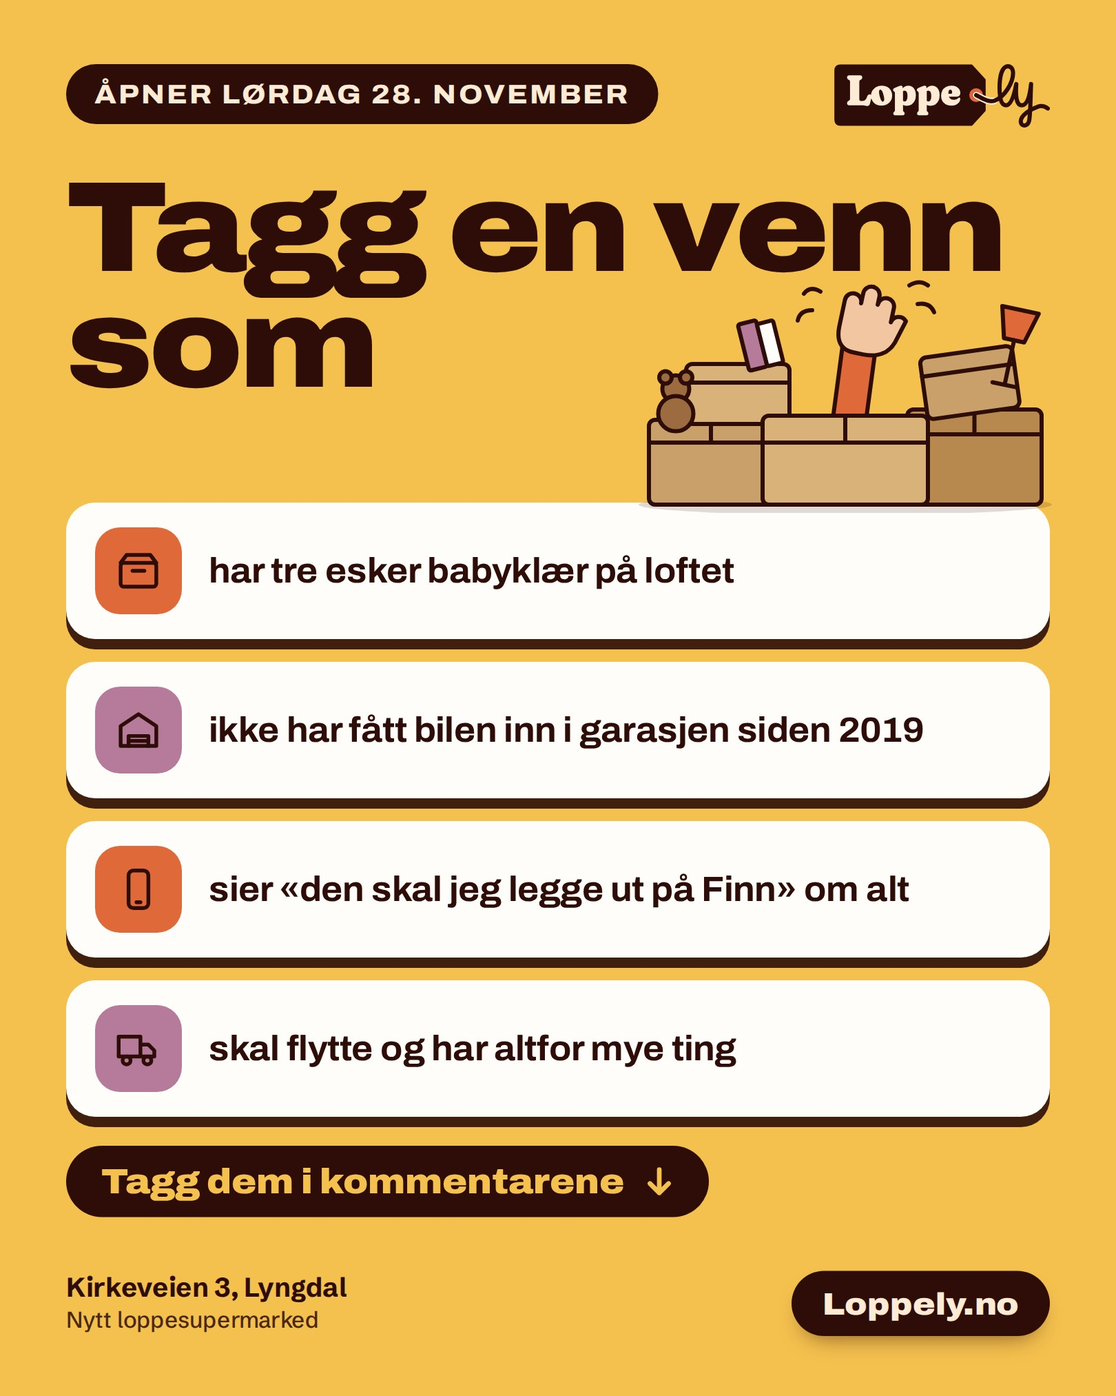
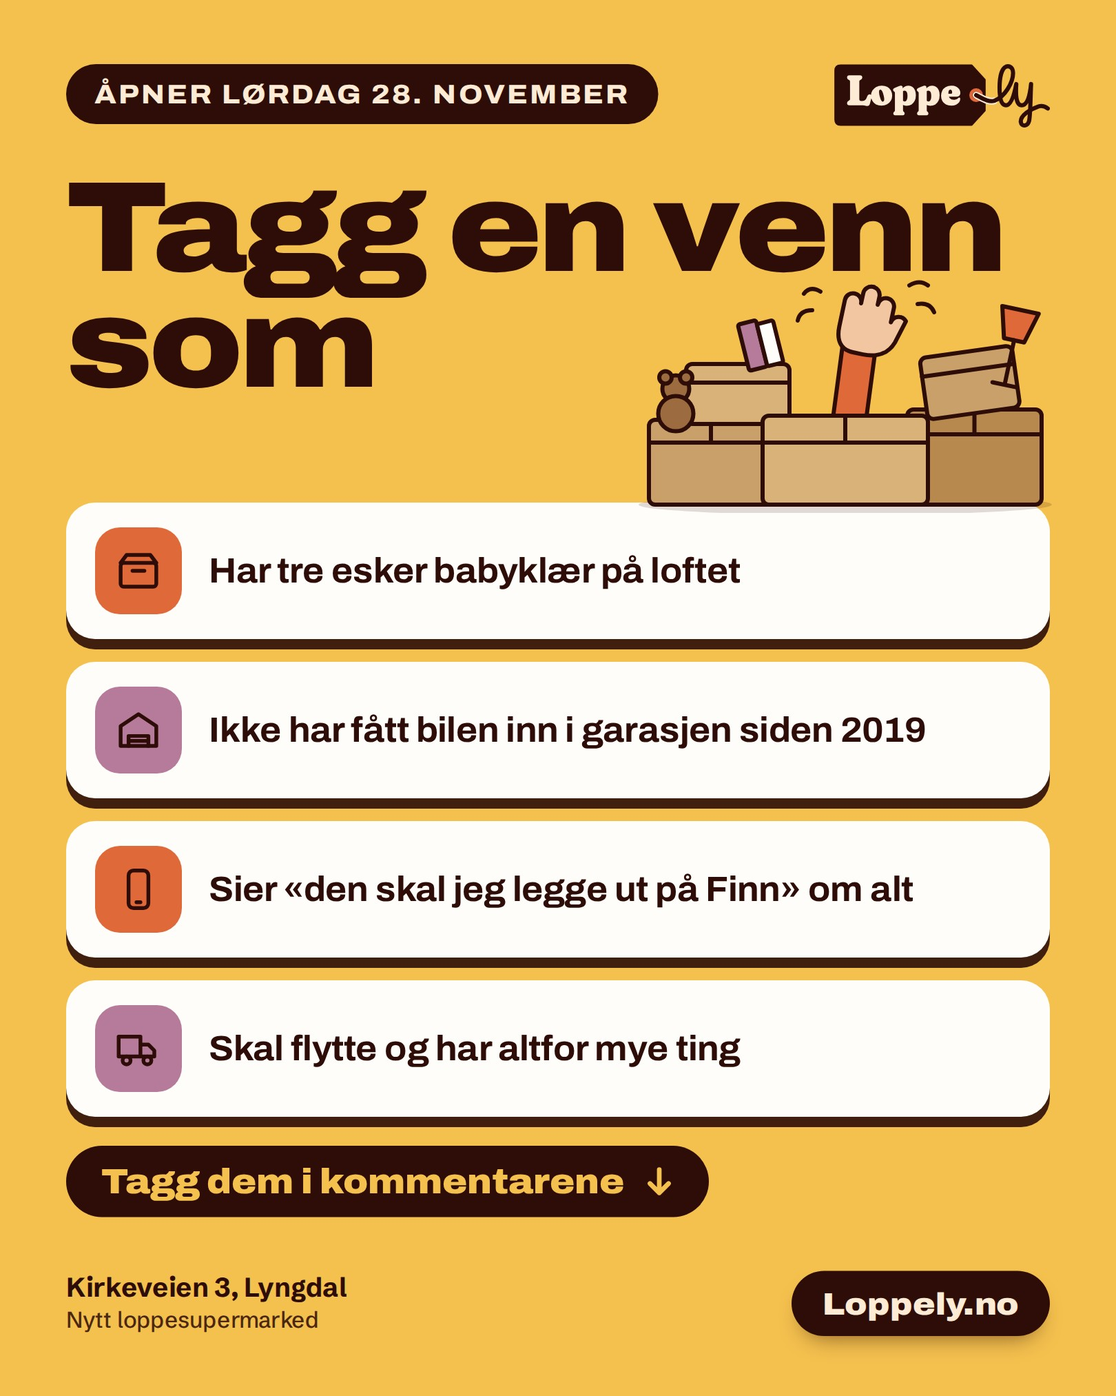
ads: capitalise the card lines on 'Tagg en venn som'
Claude-Session: https://claude.ai/code/session_01RRhAi942qst8ZUNjrS2TNS

diff --git a/ads/index.html b/ads/index.html
@@ -47,7 +47,7 @@ footer a{color:inherit}
   </div>
   <div class="grid">
   <article class="card" id="01-konsept">
-    <a class="img" href="01-konsept.jpg?v=09291247" target="_blank"><img src="01-konsept.jpg?v=09291247" width="1620" height="2025" loading="lazy" alt="Konseptet på ett bilde"></a>
+    <a class="img" href="01-konsept.jpg?v=09291249" target="_blank"><img src="01-konsept.jpg?v=09291249" width="1620" height="2025" loading="lazy" alt="Konseptet på ett bilde"></a>
     <div class="body">
       <h2>Konseptet på ett bilde</h2>
       <p class="when">Første innlegg. Fest det øverst på siden.</p>
@@ -58,11 +58,11 @@ Loppely er et nytt loppesupermarked i Kirkeveien 3 i Lyngdal. Du leier en stand,
 Vi åpner lørdag 28. november.
 
 Les mer og meld interesse på Loppely.no</pre>
-      <div class="btns"><button class="btn copy" type="button">Kopier tekst</button><a class="btn ghost" href="01-konsept.jpg?v=09291247" download="01-konsept.jpg">Last ned bilde</a></div>
+      <div class="btns"><button class="btn copy" type="button">Kopier tekst</button><a class="btn ghost" href="01-konsept.jpg?v=09291249" download="01-konsept.jpg">Last ned bilde</a></div>
     </div>
   </article>
   <article class="card" id="02-slik-funker-det">
-    <a class="img" href="02-slik-funker-det.jpg?v=09291247" target="_blank"><img src="02-slik-funker-det.jpg?v=09291247" width="1620" height="2025" loading="lazy" alt="Slik funker det"></a>
+    <a class="img" href="02-slik-funker-det.jpg?v=09291249" target="_blank"><img src="02-slik-funker-det.jpg?v=09291249" width="1620" height="2025" loading="lazy" alt="Slik funker det"></a>
     <div class="body">
       <h2>Slik funker det</h2>
       <p class="when">Uke 1. Forklarer konseptet steg for steg.</p>
@@ -77,11 +77,11 @@ Du trenger ikke stå der selv. Følg salget på «Min side».
 
 Åpner lørdag 28. november i Kirkeveien 3, Lyngdal.
 Loppely.no</pre>
-      <div class="btns"><button class="btn copy" type="button">Kopier tekst</button><a class="btn ghost" href="02-slik-funker-det.jpg?v=09291247" download="02-slik-funker-det.jpg">Last ned bilde</a></div>
+      <div class="btns"><button class="btn copy" type="button">Kopier tekst</button><a class="btn ghost" href="02-slik-funker-det.jpg?v=09291249" download="02-slik-funker-det.jpg">Last ned bilde</a></div>
     </div>
   </article>
   <article class="card" id="03-her-er-vi">
-    <a class="img" href="03-her-er-vi.jpg?v=09291247" target="_blank"><img src="03-her-er-vi.jpg?v=09291247" width="1620" height="2025" loading="lazy" alt="Her finner du oss"></a>
+    <a class="img" href="03-her-er-vi.jpg?v=09291249" target="_blank"><img src="03-her-er-vi.jpg?v=09291249" width="1620" height="2025" loading="lazy" alt="Her finner du oss"></a>
     <div class="body">
       <h2>Her finner du oss</h2>
       <p class="when">Uke 2, og igjen uka før åpning.</p>
@@ -93,11 +93,11 @@ Loppely ligger i Kirkeveien 3, midt i Lyngdal sentrum. Gå rett ned trappen, så
 Vi åpner lørdag 28. november.
 
 Veibeskrivelse på Loppely.no</pre>
-      <div class="btns"><button class="btn copy" type="button">Kopier tekst</button><a class="btn ghost" href="03-her-er-vi.jpg?v=09291247" download="03-her-er-vi.jpg">Last ned bilde</a></div>
+      <div class="btns"><button class="btn copy" type="button">Kopier tekst</button><a class="btn ghost" href="03-her-er-vi.jpg?v=09291249" download="03-her-er-vi.jpg">Last ned bilde</a></div>
     </div>
   </article>
   <article class="card" id="04-priser">
-    <a class="img" href="04-priser.jpg?v=09291247" target="_blank"><img src="04-priser.jpg?v=09291247" width="1620" height="2025" loading="lazy" alt="Priser"></a>
+    <a class="img" href="04-priser.jpg?v=09291249" target="_blank"><img src="04-priser.jpg?v=09291249" width="1620" height="2025" loading="lazy" alt="Priser"></a>
     <div class="body">
       <h2>Priser</h2>
       <p class="when">Uke 2. Svarer på «hva koster det?».</p>
@@ -110,11 +110,11 @@ VIP: fra 349 kr per uke og 29% provisjon. Du leverer varene, vi gjør resten.
 Alle priser inkluderer mva. Laveste pris gjelder ved leie i 4 uker.
 
 Se alt på Loppely.no</pre>
-      <div class="btns"><button class="btn copy" type="button">Kopier tekst</button><a class="btn ghost" href="04-priser.jpg?v=09291247" download="04-priser.jpg">Last ned bilde</a></div>
+      <div class="btns"><button class="btn copy" type="button">Kopier tekst</button><a class="btn ghost" href="04-priser.jpg?v=09291249" download="04-priser.jpg">Last ned bilde</a></div>
     </div>
   </article>
   <article class="card" id="05-utbetalt">
-    <a class="img" href="05-utbetalt.jpg?v=09291247" target="_blank"><img src="05-utbetalt.jpg?v=09291247" width="1620" height="2025" loading="lazy" alt="Dette får du utbetalt"></a>
+    <a class="img" href="05-utbetalt.jpg?v=09291249" target="_blank"><img src="05-utbetalt.jpg?v=09291249" width="1620" height="2025" loading="lazy" alt="Dette får du utbetalt"></a>
     <div class="body">
       <h2>Dette får du utbetalt</h2>
       <p class="when">Uke 3. Gjør regnestykket konkret.</p>
@@ -125,11 +125,11 @@ Selger du noe for 500 kr hos Loppely, får du 405 kr. Provisjonen er 19%, og den
 Pengene betales ut til kontoen din hver måned.
 
 Regn på flere eksempler på Loppely.no</pre>
-      <div class="btns"><button class="btn copy" type="button">Kopier tekst</button><a class="btn ghost" href="05-utbetalt.jpg?v=09291247" download="05-utbetalt.jpg">Last ned bilde</a></div>
+      <div class="btns"><button class="btn copy" type="button">Kopier tekst</button><a class="btn ghost" href="05-utbetalt.jpg?v=09291249" download="05-utbetalt.jpg">Last ned bilde</a></div>
     </div>
   </article>
   <article class="card" id="06-forste-uke-gratis">
-    <a class="img" href="06-forste-uke-gratis.jpg?v=09291247" target="_blank"><img src="06-forste-uke-gratis.jpg?v=09291247" width="1620" height="2025" loading="lazy" alt="Første uke gratis"></a>
+    <a class="img" href="06-forste-uke-gratis.jpg?v=09291249" target="_blank"><img src="06-forste-uke-gratis.jpg?v=09291249" width="1620" height="2025" loading="lazy" alt="Første uke gratis"></a>
     <div class="body">
       <h2>Første uke gratis</h2>
       <p class="when">Når dere vil ha flere på interesselista.</p>
@@ -140,11 +140,11 @@ Meld interesse på Loppely.no, så får du første uke gratis når du leier stan
 Det er gratis og uforpliktende å stå på lista. Vi tar kontakt før åpning.
 
 Loppely åpner lørdag 28. november i Kirkeveien 3, Lyngdal.</pre>
-      <div class="btns"><button class="btn copy" type="button">Kopier tekst</button><a class="btn ghost" href="06-forste-uke-gratis.jpg?v=09291247" download="06-forste-uke-gratis.jpg">Last ned bilde</a></div>
+      <div class="btns"><button class="btn copy" type="button">Kopier tekst</button><a class="btn ghost" href="06-forste-uke-gratis.jpg?v=09291249" download="06-forste-uke-gratis.jpg">Last ned bilde</a></div>
     </div>
   </article>
   <article class="card" id="07-hva-kan-du-selge">
-    <a class="img" href="07-hva-kan-du-selge.jpg?v=09291247" target="_blank"><img src="07-hva-kan-du-selge.jpg?v=09291247" width="1620" height="2025" loading="lazy" alt="Hva kan du selge?"></a>
+    <a class="img" href="07-hva-kan-du-selge.jpg?v=09291249" target="_blank"><img src="07-hva-kan-du-selge.jpg?v=09291249" width="1620" height="2025" loading="lazy" alt="Hva kan du selge?"></a>
     <div class="body">
       <h2>Hva kan du selge?</h2>
       <p class="when">Uke 3. Får folk til å tenke på boden sin.</p>
@@ -155,11 +155,11 @@ Hos Loppely kan du selge klær, barneting, leker, bøker, kjøkkenutstyr, sports
 Større ting som sykler, barnevogner og mindre møbler selger du for 39 kr per uke.
 
 Se hva du kan selge på Loppely.no</pre>
-      <div class="btns"><button class="btn copy" type="button">Kopier tekst</button><a class="btn ghost" href="07-hva-kan-du-selge.jpg?v=09291247" download="07-hva-kan-du-selge.jpg">Last ned bilde</a></div>
+      <div class="btns"><button class="btn copy" type="button">Kopier tekst</button><a class="btn ghost" href="07-hva-kan-du-selge.jpg?v=09291249" download="07-hva-kan-du-selge.jpg">Last ned bilde</a></div>
     </div>
   </article>
   <article class="card" id="08-vip">
-    <a class="img" href="08-vip.jpg?v=09291247" target="_blank"><img src="08-vip.jpg?v=09291247" width="1620" height="2025" loading="lazy" alt="VIP: Vi gjør alt"></a>
+    <a class="img" href="08-vip.jpg?v=09291249" target="_blank"><img src="08-vip.jpg?v=09291249" width="1620" height="2025" loading="lazy" alt="VIP: Vi gjør alt"></a>
     <div class="body">
       <h2>VIP: Vi gjør alt</h2>
       <p class="when">For dem som ikke har tid.</p>
@@ -170,11 +170,11 @@ Du leverer varene, så tar vi bilder, priser og registrerer dem, og gjør stande
 Fra 349 kr per uke og 29% provisjon.
 
 Les mer på Loppely.no</pre>
-      <div class="btns"><button class="btn copy" type="button">Kopier tekst</button><a class="btn ghost" href="08-vip.jpg?v=09291247" download="08-vip.jpg">Last ned bilde</a></div>
+      <div class="btns"><button class="btn copy" type="button">Kopier tekst</button><a class="btn ghost" href="08-vip.jpg?v=09291249" download="08-vip.jpg">Last ned bilde</a></div>
     </div>
   </article>
   <article class="card" id="09-merk-datoen">
-    <a class="img" href="09-merk-datoen.jpg?v=09291247" target="_blank"><img src="09-merk-datoen.jpg?v=09291247" width="1620" height="2025" loading="lazy" alt="Merk datoen"></a>
+    <a class="img" href="09-merk-datoen.jpg?v=09291249" target="_blank"><img src="09-merk-datoen.jpg?v=09291249" width="1620" height="2025" loading="lazy" alt="Merk datoen"></a>
     <div class="body">
       <h2>Merk datoen</h2>
       <p class="when">2 til 3 uker før åpning, og dagen før.</p>
@@ -184,11 +184,11 @@ Lørdag 28. november kl. 10 åpner Loppely i Kirkeveien 3, Lyngdal. Et helt nytt
 
 Vil du selge? Meld interesse på Loppely.no
 Vil du handle? Vi sees 28. november!</pre>
-      <div class="btns"><button class="btn copy" type="button">Kopier tekst</button><a class="btn ghost" href="09-merk-datoen.jpg?v=09291247" download="09-merk-datoen.jpg">Last ned bilde</a></div>
+      <div class="btns"><button class="btn copy" type="button">Kopier tekst</button><a class="btn ghost" href="09-merk-datoen.jpg?v=09291249" download="09-merk-datoen.jpg">Last ned bilde</a></div>
     </div>
   </article>
   <article class="card" id="10-rydd-til-jul">
-    <a class="img" href="10-rydd-til-jul.jpg?v=09291247" target="_blank"><img src="10-rydd-til-jul.jpg?v=09291247" width="1620" height="2025" loading="lazy" alt="Rydd plass til jul"></a>
+    <a class="img" href="10-rydd-til-jul.jpg?v=09291249" target="_blank"><img src="10-rydd-til-jul.jpg?v=09291249" width="1620" height="2025" loading="lazy" alt="Rydd plass til jul"></a>
     <div class="body">
       <h2>Rydd plass til jul</h2>
       <p class="when">Fra midten av november.</p>
@@ -199,11 +199,11 @@ Leker barna har vokst fra, klær som ikke passer, ting som bare står i boden. D
 Lei en stand hos Loppely, så selger vi for deg gjennom hele julehandelen. Vi åpner lørdag 28. november.
 
 Loppely.no</pre>
-      <div class="btns"><button class="btn copy" type="button">Kopier tekst</button><a class="btn ghost" href="10-rydd-til-jul.jpg?v=09291247" download="10-rydd-til-jul.jpg">Last ned bilde</a></div>
+      <div class="btns"><button class="btn copy" type="button">Kopier tekst</button><a class="btn ghost" href="10-rydd-til-jul.jpg?v=09291249" download="10-rydd-til-jul.jpg">Last ned bilde</a></div>
     </div>
   </article>
   <article class="card" id="11-hvem-er-vi">
-    <a class="img" href="11-hvem-er-vi.jpg?v=09291247" target="_blank"><img src="11-hvem-er-vi.jpg?v=09291247" width="1620" height="2025" loading="lazy" alt="Hvem er vi"></a>
+    <a class="img" href="11-hvem-er-vi.jpg?v=09291249" target="_blank"><img src="11-hvem-er-vi.jpg?v=09291249" width="1620" height="2025" loading="lazy" alt="Hvem er vi"></a>
     <div class="body">
       <h2>Hvem er vi</h2>
       <p class="when">Tidlig. Folk handler med folk.</p>
@@ -214,11 +214,11 @@ Vi åpner Loppely i Lyngdal fordi vi mener gode ting fortjener et nytt hjem, og 
 Lørdag 28. november åpner vi dørene i Kirkeveien 3. Vi gleder oss til å se dere!
 
 Loppely.no</pre>
-      <div class="btns"><button class="btn copy" type="button">Kopier tekst</button><a class="btn ghost" href="11-hvem-er-vi.jpg?v=09291247" download="11-hvem-er-vi.jpg">Last ned bilde</a></div>
+      <div class="btns"><button class="btn copy" type="button">Kopier tekst</button><a class="btn ghost" href="11-hvem-er-vi.jpg?v=09291249" download="11-hvem-er-vi.jpg">Last ned bilde</a></div>
     </div>
   </article>
   <article class="card" id="12-for-og-etter">
-    <a class="img" href="12-for-og-etter.jpg?v=09291247" target="_blank"><img src="12-for-og-etter.jpg?v=09291247" width="1620" height="2025" loading="lazy" alt="Før og etter"></a>
+    <a class="img" href="12-for-og-etter.jpg?v=09291249" target="_blank"><img src="12-for-og-etter.jpg?v=09291249" width="1620" height="2025" loading="lazy" alt="Før og etter"></a>
     <div class="body">
       <h2>Før og etter</h2>
       <p class="when">Når som helst. Viser gevinsten på ett blikk.</p>
@@ -228,11 +228,11 @@ Lei en stand hos Loppely, sett prisen, og la oss selge tingene for deg. Du får 
 
 Åpner lørdag 28. november i Kirkeveien 3, Lyngdal.
 Loppely.no</pre>
-      <div class="btns"><button class="btn copy" type="button">Kopier tekst</button><a class="btn ghost" href="12-for-og-etter.jpg?v=09291247" download="12-for-og-etter.jpg">Last ned bilde</a></div>
+      <div class="btns"><button class="btn copy" type="button">Kopier tekst</button><a class="btn ghost" href="12-for-og-etter.jpg?v=09291249" download="12-for-og-etter.jpg">Last ned bilde</a></div>
     </div>
   </article>
   <article class="card" id="13-avstemning">
-    <a class="img" href="13-avstemning.jpg?v=09291247" target="_blank"><img src="13-avstemning.jpg?v=09291247" width="1620" height="2025" loading="lazy" alt="Avstemning: Hva ligger i boden?"></a>
+    <a class="img" href="13-avstemning.jpg?v=09291249" target="_blank"><img src="13-avstemning.jpg?v=09291249" width="1620" height="2025" loading="lazy" alt="Avstemning: Hva ligger i boden?"></a>
     <div class="body">
       <h2>Avstemning: Hva ligger i boden?</h2>
       <p class="when">For engasjement. Svar på kommentarene.</p>
@@ -246,11 +246,11 @@ D. Alt mulig rart
 Svar med bokstaven i kommentarfeltet. Uansett svar: alt dette kan du selge hos Loppely fra 28. november.
 
 Loppely.no</pre>
-      <div class="btns"><button class="btn copy" type="button">Kopier tekst</button><a class="btn ghost" href="13-avstemning.jpg?v=09291247" download="13-avstemning.jpg">Last ned bilde</a></div>
+      <div class="btns"><button class="btn copy" type="button">Kopier tekst</button><a class="btn ghost" href="13-avstemning.jpg?v=09291249" download="13-avstemning.jpg">Last ned bilde</a></div>
     </div>
   </article>
   <article class="card" id="14-19-prosent">
-    <a class="img" href="14-19-prosent.jpg?v=09291247" target="_blank"><img src="14-19-prosent.jpg?v=09291247" width="1620" height="2025" loading="lazy" alt="19%"></a>
+    <a class="img" href="14-19-prosent.jpg?v=09291249" target="_blank"><img src="14-19-prosent.jpg?v=09291249" width="1620" height="2025" loading="lazy" alt="19%"></a>
     <div class="body">
       <h2>19%</h2>
       <p class="when">Uke 3. Enkelt og tydelig.</p>
@@ -260,11 +260,11 @@ For det står vi i kassen, rydder standen hver dag, og du følger salget på «M
 
 Stand fra 200 kr per uke. Åpner 28. november.
 Loppely.no</pre>
-      <div class="btns"><button class="btn copy" type="button">Kopier tekst</button><a class="btn ghost" href="14-19-prosent.jpg?v=09291247" download="14-19-prosent.jpg">Last ned bilde</a></div>
+      <div class="btns"><button class="btn copy" type="button">Kopier tekst</button><a class="btn ghost" href="14-19-prosent.jpg?v=09291249" download="14-19-prosent.jpg">Last ned bilde</a></div>
     </div>
   </article>
   <article class="card" id="15-prislapp">
-    <a class="img" href="15-prislapp.jpg?v=09291247" target="_blank"><img src="15-prislapp.jpg?v=09291247" width="1620" height="2025" loading="lazy" alt="Prislappen"></a>
+    <a class="img" href="15-prislapp.jpg?v=09291249" target="_blank"><img src="15-prislapp.jpg?v=09291249" width="1620" height="2025" loading="lazy" alt="Prislappen"></a>
     <div class="body">
       <h2>Prislappen</h2>
       <p class="when">Når som helst. Blikkfang i feeden.</p>
@@ -274,11 +274,11 @@ Hos Loppely bestemmer du hva tingene dine skal koste. Du registrerer varene, skr
 
 Åpner lørdag 28. november.
 Loppely.no</pre>
-      <div class="btns"><button class="btn copy" type="button">Kopier tekst</button><a class="btn ghost" href="15-prislapp.jpg?v=09291247" download="15-prislapp.jpg">Last ned bilde</a></div>
+      <div class="btns"><button class="btn copy" type="button">Kopier tekst</button><a class="btn ghost" href="15-prislapp.jpg?v=09291249" download="15-prislapp.jpg">Last ned bilde</a></div>
     </div>
   </article>
   <article class="card" id="16-sjekkliste">
-    <a class="img" href="16-sjekkliste.jpg?v=09291247" target="_blank"><img src="16-sjekkliste.jpg?v=09291247" width="1620" height="2025" loading="lazy" alt="Sjekkliste før du leverer"></a>
+    <a class="img" href="16-sjekkliste.jpg?v=09291249" target="_blank"><img src="16-sjekkliste.jpg?v=09291249" width="1620" height="2025" loading="lazy" alt="Sjekkliste før du leverer"></a>
     <div class="body">
       <h2>Sjekkliste før du leverer</h2>
       <p class="when">Uka før åpning.</p>
@@ -293,11 +293,11 @@ Loppely.no</pre>
 Så er standen klar, og du får plass hjemme igjen. Vil du slippe alt dette? Velg VIP, så gjør vi det for deg.
 
 Loppely.no</pre>
-      <div class="btns"><button class="btn copy" type="button">Kopier tekst</button><a class="btn ghost" href="16-sjekkliste.jpg?v=09291247" download="16-sjekkliste.jpg">Last ned bilde</a></div>
+      <div class="btns"><button class="btn copy" type="button">Kopier tekst</button><a class="btn ghost" href="16-sjekkliste.jpg?v=09291249" download="16-sjekkliste.jpg">Last ned bilde</a></div>
     </div>
   </article>
   <article class="card" id="17-bra-for-alle">
-    <a class="img" href="17-bra-for-alle.jpg?v=09291247" target="_blank"><img src="17-bra-for-alle.jpg?v=09291247" width="1620" height="2025" loading="lazy" alt="Bra for lommeboka og miljøet"></a>
+    <a class="img" href="17-bra-for-alle.jpg?v=09291249" target="_blank"><img src="17-bra-for-alle.jpg?v=09291249" width="1620" height="2025" loading="lazy" alt="Bra for lommeboka og miljøet"></a>
     <div class="body">
       <h2>Bra for lommeboka og miljøet</h2>
       <p class="when">Når som helst. Myk og positiv.</p>
@@ -307,11 +307,11 @@ Når du selger det du ikke bruker, får du penger og plass hjemme. Og tingene di
 
 Loppely åpner i Lyngdal lørdag 28. november.
 Loppely.no</pre>
-      <div class="btns"><button class="btn copy" type="button">Kopier tekst</button><a class="btn ghost" href="17-bra-for-alle.jpg?v=09291247" download="17-bra-for-alle.jpg">Last ned bilde</a></div>
+      <div class="btns"><button class="btn copy" type="button">Kopier tekst</button><a class="btn ghost" href="17-bra-for-alle.jpg?v=09291249" download="17-bra-for-alle.jpg">Last ned bilde</a></div>
     </div>
   </article>
   <article class="card" id="18-min-side">
-    <a class="img" href="18-min-side.jpg?v=09291247" target="_blank"><img src="18-min-side.jpg?v=09291247" width="1620" height="2025" loading="lazy" alt="Følg salget på mobilen"></a>
+    <a class="img" href="18-min-side.jpg?v=09291249" target="_blank"><img src="18-min-side.jpg?v=09291249" width="1620" height="2025" loading="lazy" alt="Følg salget på mobilen"></a>
     <div class="body">
       <h2>Følg salget på mobilen</h2>
       <p class="when">Uke 3. Viser «Min side».</p>
@@ -321,11 +321,11 @@ På «Min side» ser du hva som er solgt, hva som står igjen, og hvor mye du ha
 
 Loppely åpner lørdag 28. november.
 Loppely.no</pre>
-      <div class="btns"><button class="btn copy" type="button">Kopier tekst</button><a class="btn ghost" href="18-min-side.jpg?v=09291247" download="18-min-side.jpg">Last ned bilde</a></div>
+      <div class="btns"><button class="btn copy" type="button">Kopier tekst</button><a class="btn ghost" href="18-min-side.jpg?v=09291249" download="18-min-side.jpg">Last ned bilde</a></div>
     </div>
   </article>
   <article class="card" id="19-sporsmal-og-svar">
-    <a class="img" href="19-sporsmal-og-svar.jpg?v=09291247" target="_blank"><img src="19-sporsmal-og-svar.jpg?v=09291247" width="1620" height="2025" loading="lazy" alt="Spørsmål og svar"></a>
+    <a class="img" href="19-sporsmal-og-svar.jpg?v=09291249" target="_blank"><img src="19-sporsmal-og-svar.jpg?v=09291249" width="1620" height="2025" loading="lazy" alt="Spørsmål og svar"></a>
     <div class="body">
       <h2>Spørsmål og svar</h2>
       <p class="when">Uke 2 til 4. Fjerner tvil.</p>
@@ -336,11 +336,11 @@ Hvem setter prisen? Du. Og du kan endre den underveis.
 Når får jeg pengene? Utbetaling hver måned.
 
 Har du flere spørsmål? Skriv i kommentarfeltet, eller les mer på Loppely.no</pre>
-      <div class="btns"><button class="btn copy" type="button">Kopier tekst</button><a class="btn ghost" href="19-sporsmal-og-svar.jpg?v=09291247" download="19-sporsmal-og-svar.jpg">Last ned bilde</a></div>
+      <div class="btns"><button class="btn copy" type="button">Kopier tekst</button><a class="btn ghost" href="19-sporsmal-og-svar.jpg?v=09291249" download="19-sporsmal-og-svar.jpg">Last ned bilde</a></div>
     </div>
   </article>
   <article class="card" id="20-kvittering">
-    <a class="img" href="20-kvittering.jpg?v=09291247" target="_blank"><img src="20-kvittering.jpg?v=09291247" width="1620" height="2025" loading="lazy" alt="Kvitteringen"></a>
+    <a class="img" href="20-kvittering.jpg?v=09291249" target="_blank"><img src="20-kvittering.jpg?v=09291249" width="1620" height="2025" loading="lazy" alt="Kvitteringen"></a>
     <div class="body">
       <h2>Kvitteringen</h2>
       <p class="when">Uke 3 eller 4. Konkret og morsom.</p>
@@ -352,26 +352,26 @@ Tallene er et eksempel. Du setter prisene selv.
 
 Loppely åpner lørdag 28. november.
 Loppely.no</pre>
-      <div class="btns"><button class="btn copy" type="button">Kopier tekst</button><a class="btn ghost" href="20-kvittering.jpg?v=09291247" download="20-kvittering.jpg">Last ned bilde</a></div>
+      <div class="btns"><button class="btn copy" type="button">Kopier tekst</button><a class="btn ghost" href="20-kvittering.jpg?v=09291249" download="20-kvittering.jpg">Last ned bilde</a></div>
     </div>
   </article>
   <article class="card" id="21-tagg-en-venn">
-    <a class="img" href="21-tagg-en-venn.jpg?v=09291247" target="_blank"><img src="21-tagg-en-venn.jpg?v=09291247" width="1620" height="2025" loading="lazy" alt="Tagg en venn"></a>
+    <a class="img" href="21-tagg-en-venn.jpg?v=09291249" target="_blank"><img src="21-tagg-en-venn.jpg?v=09291249" width="1620" height="2025" loading="lazy" alt="Tagg en venn"></a>
     <div class="body">
       <h2>Tagg en venn som…</h2>
       <p class="when">For rekkevidde. Folk kjenner seg igjen og tagger.</p>
       <pre class="cap">Tagg en venn som 👇
 
-📦 har tre esker babyklær på loftet
-🚗 ikke har fått bilen inn i garasjen siden 2019
-📱 sier «den skal jeg legge ut på Finn» om alt
-🚚 skal flytte og har altfor mye ting
+📦 Har tre esker babyklær på loftet
+🚗 Ikke har fått bilen inn i garasjen siden 2019
+📱 Sier «den skal jeg legge ut på Finn» om alt
+🚚 Skal flytte og har altfor mye ting
 
 Hvem tenker du på? Tagg dem i kommentarene! 😄
 
 Hos Loppely leier de en stand, og vi selger tingene for dem. Åpner lørdag 28. november i Kirkeveien 3, Lyngdal.
 Loppely.no</pre>
-      <div class="btns"><button class="btn copy" type="button">Kopier tekst</button><a class="btn ghost" href="21-tagg-en-venn.jpg?v=09291247" download="21-tagg-en-venn.jpg">Last ned bilde</a></div>
+      <div class="btns"><button class="btn copy" type="button">Kopier tekst</button><a class="btn ghost" href="21-tagg-en-venn.jpg?v=09291249" download="21-tagg-en-venn.jpg">Last ned bilde</a></div>
     </div>
   </article>
   </div>
